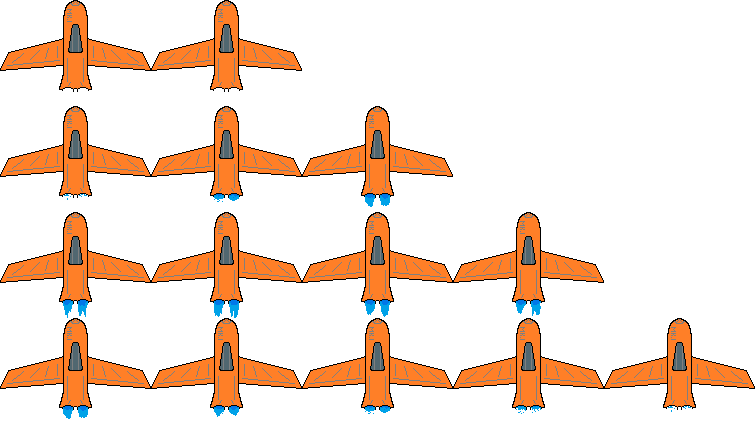
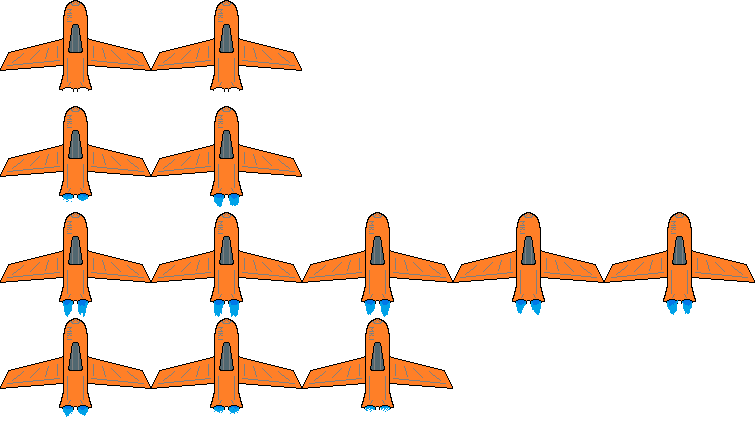
Implemented a physics contact listener, calls collision functions on PhysicsEntity. Editied thrust animation, edited other minor things.

diff --git a/AstroEngine/TestShip.cpp b/AstroEngine/TestShip.cpp
@@ -5,7 +5,7 @@ TestShip::TestShip(EntityManager* entityMgr)
 	: PhysicsEntity(entityMgr),
 	m_spriteSheet(m_entityMgr->GetContext()->m_textureManager),
 	thrustForce(100),
-	rotationTorque(100)
+	rotationTorque(250)
 {
 	spriteSheetSetup();
 	physicsSetup();
@@ -20,6 +20,14 @@ TestShip::~TestShip()
 	EventManager* eventMgr = m_entityMgr->GetContext()->m_eventManager;
 	eventMgr->RemoveCallback(StateType::Game, "Game_StartThrust");
 	eventMgr->RemoveCallback(StateType::Game, "Game_StopThrust");
+}
+
+void TestShip::PhysicsCollisionStart(PhysicsEntity* other)
+{
+}
+
+void TestShip::PhysicsCollisionEnd(PhysicsEntity* other)
+{
 }
 
 void TestShip::Update(float dt)
@@ -113,16 +121,12 @@ void TestShip::rotateToMouse()
 		}
 	}
 
-	
-
 	float bodyAngle = rigidbody.GetAngle();
 	float nextAngle = bodyAngle + rigidbody.GetAngularVelocity() / 3.0;
 	float totalRotation = desiredAngle - nextAngle;
 
 	while (totalRotation < -180) totalRotation += 360;
 	while (totalRotation > 180) totalRotation -= 360;
-
-	std::cout << totalRotation << std::endl;
 	
 	float torque = totalRotation < 0 ? -rotationTorque : rotationTorque;
 	rigidbody.ApplyTorque(torque);

diff --git a/AstroEngine/ContactListener.h b/AstroEngine/ContactListener.h
@@ -1,0 +1,31 @@
+#pragma once
+#include "PhysicsEntity.h"
+#include "box2d\b2_world_callbacks.h"
+#include "box2d/b2_contact.h"
+class ContactListener : public b2ContactListener
+{
+	void BeginContact(b2Contact* contact) override
+	{
+		void* object1 = contact->GetFixtureA()->GetBody()->GetUserData();
+		void* object2 = contact->GetFixtureB()->GetBody()->GetUserData();
+		PhysicsEntity* entity1 = static_cast<PhysicsEntity*>(object1);
+		PhysicsEntity* entity2 = static_cast<PhysicsEntity*>(object2);
+
+		std::cout << entity1->GetName() << " collided with " << entity2->GetName() << std::endl;
+
+		entity1->PhysicsCollisionStart(entity2);
+		entity2->PhysicsCollisionStart(entity1);
+	}
+
+	void EndContact(b2Contact* contact) override
+	{
+		void* object1 = contact->GetFixtureA()->GetBody()->GetUserData();
+		void* object2 = contact->GetFixtureB()->GetBody()->GetUserData();
+		PhysicsEntity* entity1 = static_cast<PhysicsEntity*>(object1);
+		PhysicsEntity* entity2 = static_cast<PhysicsEntity*>(object2);
+
+		entity1->PhysicsCollisionEnd(entity2);
+		entity2->PhysicsCollisionEnd(entity1);
+	}
+};
+

diff --git a/AstroEngine/ResourceManager.h b/AstroEngine/ResourceManager.h
@@ -37,6 +37,7 @@ public:
 			++res->second;
 			return true;
 		}
+		std::cout << "Loading resource " << id << std::endl;
 		auto path = m_paths.find(id);
 		if (path == m_paths.end()) { return false; }
 		T* resource = Load(path->second);
@@ -92,6 +93,7 @@ private:
 
 	void loadPaths(const std::string& pathFile)
 	{
+		std::cout << "Initializing texture resources... ";
 		std::ifstream paths;
 		paths.open(pathFile);
 
@@ -108,6 +110,7 @@ private:
 				keystream >> path;
 				m_paths.emplace(pathName, path);
 			}
+			std::cout << "done." << std::endl;
 			paths.close();
 			return;
 		}

diff --git a/AstroEngine/State_MainMenu.cpp b/AstroEngine/State_MainMenu.cpp
@@ -74,11 +74,11 @@ void State_MainMenu::Activate()
 	}
 }
 
-void State_MainMenu::Deactivate() {}
+void State_MainMenu::Deactivate() { m_timePassed = 0; }
 
 void State_MainMenu::Update(const sf::Time& time) 
 {
-	if (m_timePassed < 1.f)
+	if (m_timePassed <= 1.0)
 	{
 		m_timePassed += time.asSeconds();
 		for (int i = 0; i < 3; i++)

diff --git a/AstroEngine/Game.h b/AstroEngine/Game.h
@@ -8,6 +8,7 @@
 #include "EventManager.h"
 #include "TextureManager.h"
 #include "EntityManager.h"
+#include "ContactListener.h"
 
 class Game
 {
@@ -32,6 +33,7 @@ private:
 	EntityManager m_entityManager;
 	TextureManager m_textureManager;
 	b2World m_world;
+	ContactListener m_contactListener;
 
 	SharedContext m_context;
 

diff --git a/AstroEngine/PhysicsEntity.h b/AstroEngine/PhysicsEntity.h
@@ -16,6 +16,9 @@ public:
 	void SetAngle(float angle);
 
 	virtual void SetVelocity(float x, float y) override;
+
+	virtual void PhysicsCollisionStart(PhysicsEntity* other) = 0;
+	virtual void PhysicsCollisionEnd(PhysicsEntity* other) = 0;
 	
 	virtual void Update(float dt);
 	virtual void Draw(sf::RenderWindow* wind) = 0;

diff --git a/AstroEngine/TestShip.h b/AstroEngine/TestShip.h
@@ -10,6 +10,9 @@ public:
 	TestShip(EntityManager* entityMgr);
 	virtual ~TestShip();
 
+	virtual void PhysicsCollisionStart(PhysicsEntity* other) override;
+	virtual void PhysicsCollisionEnd(PhysicsEntity* other) override;
+
 	virtual void Update(float dt) override;
 	virtual void Draw(sf::RenderWindow* wind) override;
 

diff --git a/AstroEngine/PhysicsBox.cpp b/AstroEngine/PhysicsBox.cpp
@@ -20,6 +20,15 @@ void PhysicsBox::Create(float sizeX, float sizeY)
 	SetSize(sizeX, sizeY);
 }
 
+void PhysicsBox::PhysicsCollisionStart(PhysicsEntity* other)
+{
+	
+}
+
+void PhysicsBox::PhysicsCollisionEnd(PhysicsEntity* other)
+{
+}
+
 void PhysicsBox::Update(float dt)
 {
 	PhysicsEntity::Update(dt);

diff --git a/AstroEngine/PhysicsBox.h b/AstroEngine/PhysicsBox.h
@@ -9,6 +9,9 @@ public:
 
 	void Create(float sizeX, float sizeY);
 
+	virtual void PhysicsCollisionStart(PhysicsEntity* other) override;
+	virtual void PhysicsCollisionEnd(PhysicsEntity* other) override;
+
 	virtual void Update(float dt) override;
 	virtual void Draw(sf::RenderWindow* wind) override;
 

diff --git a/AstroEngine/Rigidbody.h b/AstroEngine/Rigidbody.h
@@ -35,6 +35,9 @@ public:
 	float GetAngularVelocity();
 	float GetInertia();
 
+	//Exposed Box2d body setters
+	void SetUserData(void* data);
+
 	//Exposed Box2d body manipulation methods
 	void ApplyAngularImpulse(float impulse);
 	void ApplyForce(const sf::Vector2f& force, const sf::Vector2f& point);

diff --git a/AstroEngine/PhysicsEntity.cpp b/AstroEngine/PhysicsEntity.cpp
@@ -2,7 +2,10 @@
 
 PhysicsEntity::PhysicsEntity(EntityManager* entityMgr) 
 	: BaseEntity(entityMgr), rigidbody(entityMgr->GetContext()->m_world)
-{ m_type = EntityType::PhysicsObject; }
+{ 
+	m_type = EntityType::PhysicsObject; 
+	rigidbody.SetUserData(this);
+}
 
 PhysicsEntity::~PhysicsEntity()
 {}

diff --git a/AstroEngine/Game.cpp b/AstroEngine/Game.cpp
@@ -5,6 +5,7 @@ m_stateManager(&m_context), m_entityManager(&m_context, 500), m_world(b2Vec2(0,0
 {
 	m_clock.restart();
 	m_world.SetAllowSleeping(true);
+	m_world.SetContactListener(&m_contactListener);
 
 	m_context.m_wind = &m_window;
 	m_context.m_eventManager = m_window.GetEventManager();
